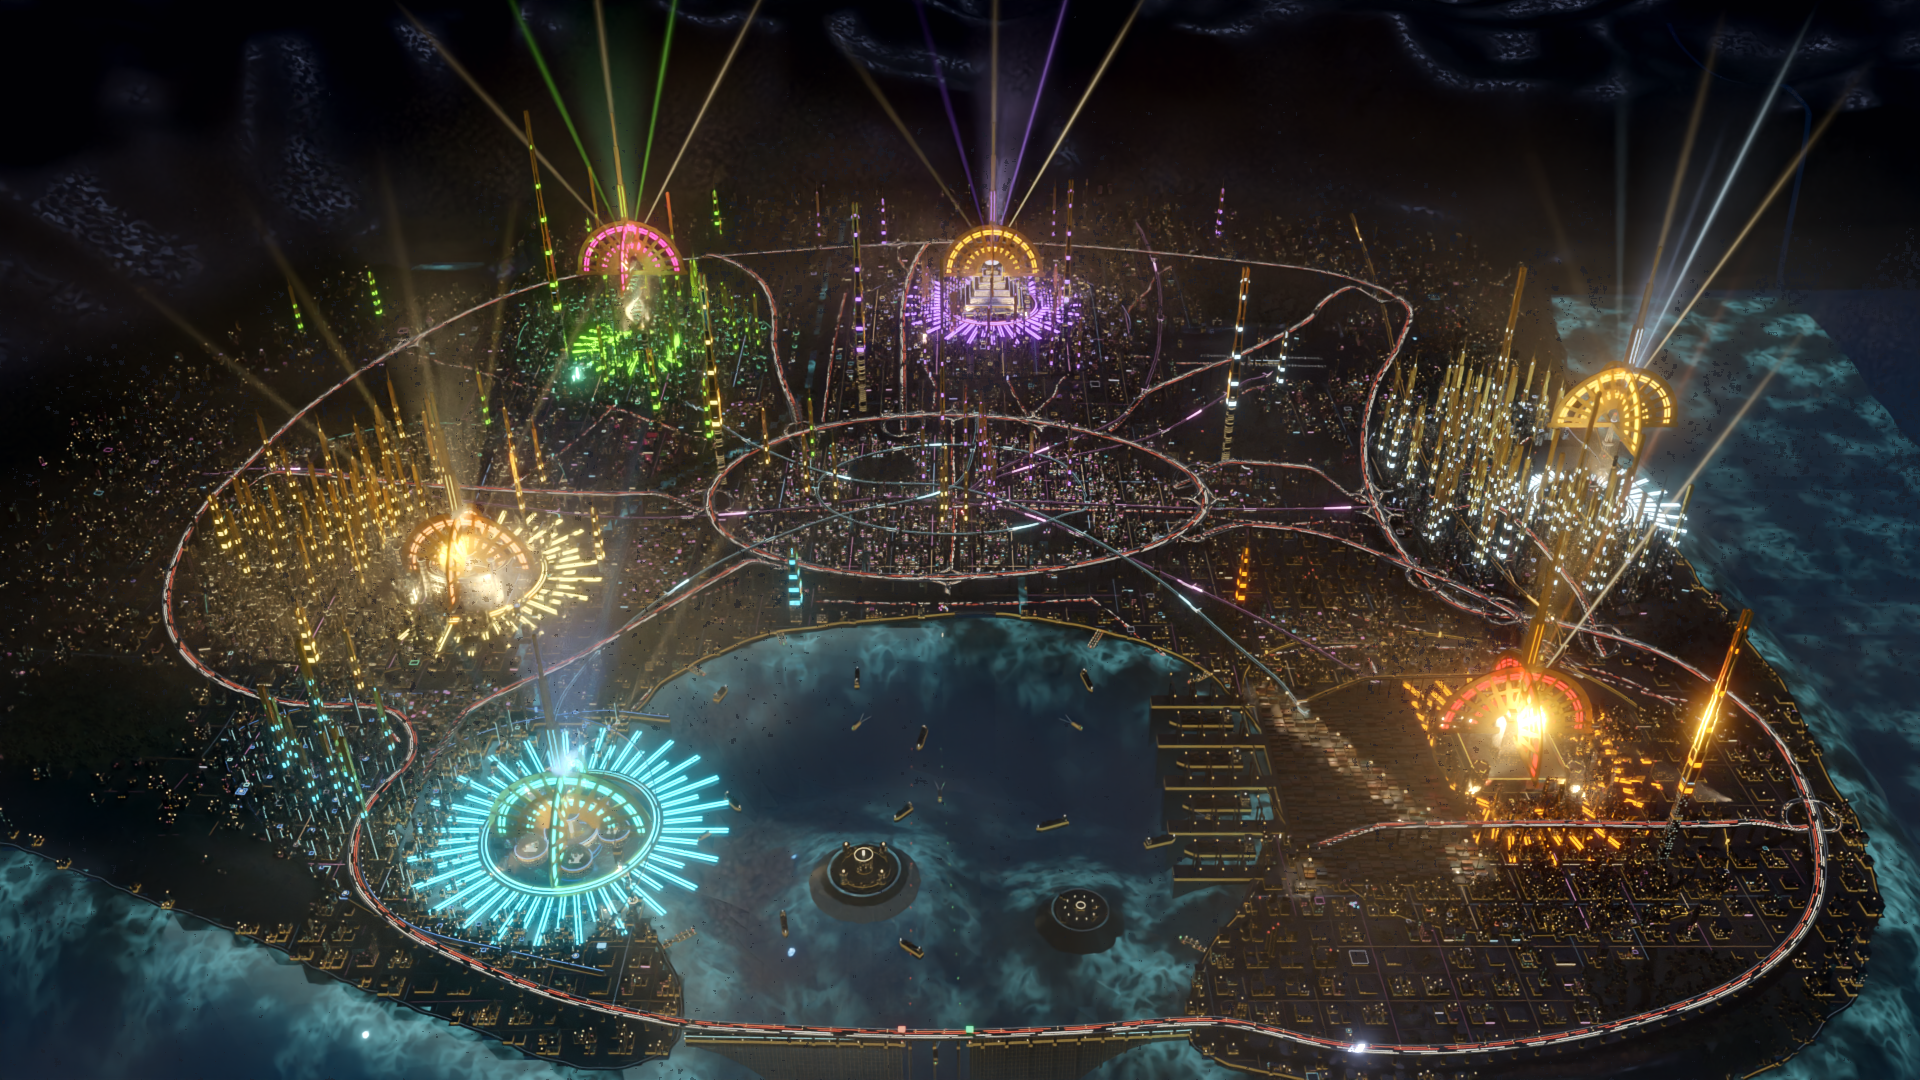
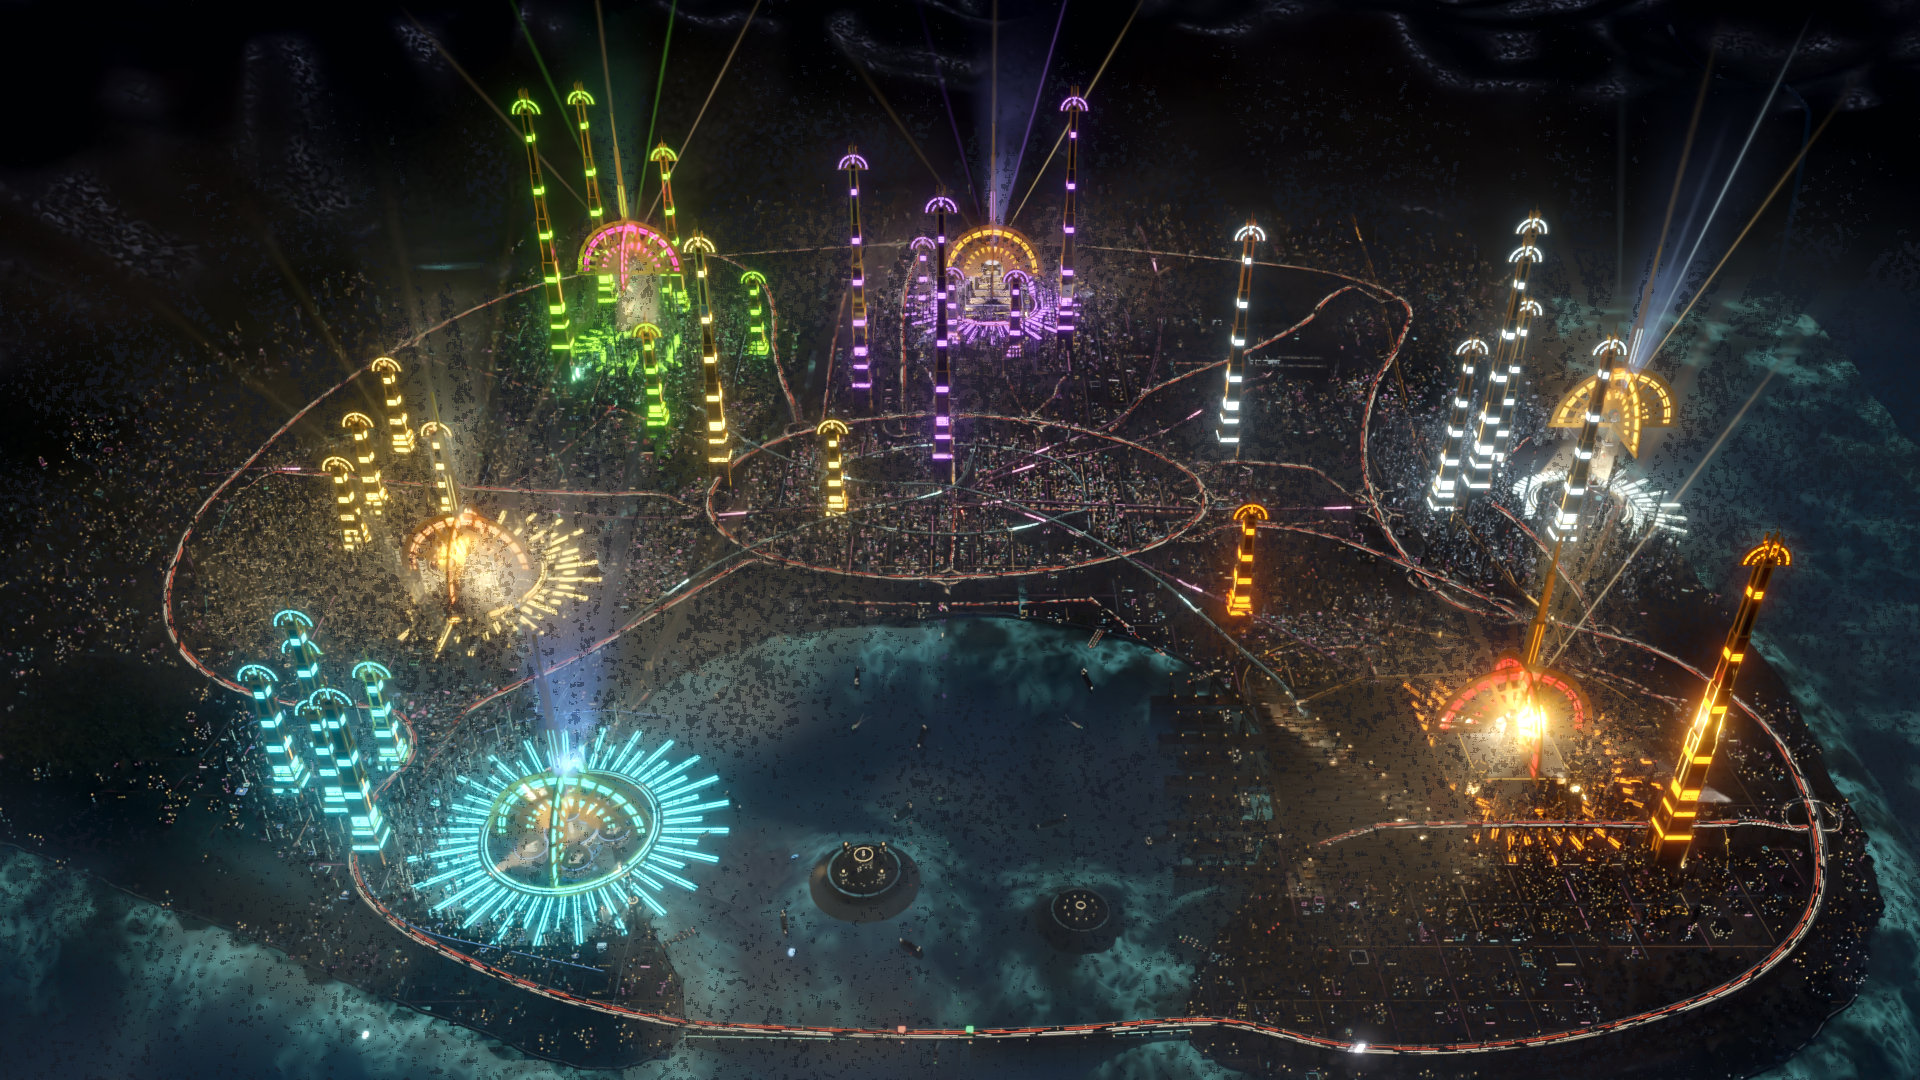
Art deco concepts: whole-city panel v2 (cool fill, crown towers per district)

diff --git a/docs/concepts/art_deco/scripts/deco_city.py b/docs/concepts/art_deco/scripts/deco_city.py
@@ -41,7 +41,7 @@ def patch_src(fname, src):
         # fog colour: neutral warm charcoal (the volume scatter colour in mat_fog)
         k2 = 'vs.inputs["Color"].default_value = (0.85, 0.80, 1.0, 1)'
         assert k2 in src
-        c = CFG.get("fog_col", (0.62, 0.56, 0.50))
+        c = CFG.get("fog_col", (0.40, 0.47, 0.62))
         src = src.replace(k2, 'vs.inputs["Color"].default_value = (%f, %f, %f, 1)' % tuple(c), 1)
     return src
 
@@ -52,6 +52,26 @@ def _prep_preset():
     for k, v in CFG.get("aaa", {}).items():
         A[k] = v
     return CP
+
+
+def _district_towers(g, frac, min_top, avoid, min_half):
+    """The tallest `frac` of the towers of each district (nearest landmark), inside the frame."""
+    LM = g["LM"]
+    allt = _towers(g, 100000, min_top, avoid, min_half)
+    by = {}
+    for t in allt:
+        best, bd = None, 1e18
+        for corp, v in LM.items():
+            d = math.hypot(t[0] - v[0][0], t[1] - v[0][1])
+            if corp != "rebel_cell" and d < bd:
+                best, bd = corp, d
+        by.setdefault(best, []).append(t)
+    out = []
+    for corp, lst in sorted(by.items(), key=lambda kv: str(kv[0])):
+        lst.sort(key=lambda t: -t[4])
+        n = max(CFG.get("per_district_min", 3), int(round(len(lst) * frac)))
+        out += [t + (corp,) for t in lst[:n]]
+    return out
 
 
 def _towers(g, n, min_top, avoid, min_half=2.0):
@@ -95,7 +115,7 @@ def apply_city(g):
     for k in ("surf", "smooth"):
         m = MS.get(k)
         if m is not None and not m.get("deco_done"):
-            D.lacquer_facade(m, dark=CFG.get("dark", 0.22), window_tint=tuple(CFG.get("win_tint", (1.0, 0.82, 0.55))),
+            D.lacquer_facade(m, dark=CFG.get("dark", 0.14), gold=tuple(CFG.get("grid_col", (0.22, 0.28, 0.42))), band_emit=CFG.get("band_emit", 0.05), win_boost=CFG.get("win_boost", 2.2), window_tint=tuple(CFG.get("win_tint", (0.80, 0.90, 1.0))),
                              fade0=CFG.get("fade0", 400.0), fade1=CFG.get("fade1", 900.0), band_w=CFG.get("band_w", 0.05))
             m["deco_done"] = 1
     if OBJ.get("bill") is not None:
@@ -160,28 +180,39 @@ def apply_city(g):
                 loc = (bx + (r + 9.0) * math.cos(a), by + (r + 9.0) * math.sin(a), z0 + 1.5)
                 g["light"]("deco_up_%s_%d" % (corp, k), "SPOT", loc, CFG.get("up_w", 2.0e6), (1.0, 0.66, 0.30),
                            rot=g["aim"](loc, (bx, by, crown[2] * 0.7)), spot=CFG.get("up_cone", 38.0), blend=0.6, shadow=False)
-    # 3. towers: stepped crowns, piers, parallel neon in the district's corp hue, fans on the tallest few
-    zs = sorted(r[5] - r[4] for r in REC)
-    zt = sorted(r[5] for r in REC)
-    print("[deco] REC height p50/p90/p99/max", zs[len(zs)//2], zs[int(len(zs)*0.9)], zs[int(len(zs)*0.99)], zs[-1], "top p50/p90/max", zt[len(zt)//2], zt[int(len(zt)*0.9)], zt[-1], flush=True)
-    towers = _towers(g, CFG.get("n_towers", 160), CFG.get("min_top", 38.0), avoid, CFG.get("min_half", 2.0))
-    nfan = CFG.get("n_fans", 14)
+    # 3. crown towers: the tallest few per district, ornament scaled to read at this distance, floodlit from below,
+    #    neon in the district's corp hue (gold stays on the crowns and trims of these towers only)
+    towers = _district_towers(g, CFG.get("top_frac", 0.045), CFG.get("min_top", 18.0), avoid, CFG.get("min_half", 1.1))
     lacq, goldq = ctx["lac"], ctx["gold"]
     nq = {}
-    for k, (cx, cy, hx, hy, z1) in enumerate(towers):
+    nfl = 0
+    for k, (cx, cy, hx, hy, z1, corp) in enumerate(towers):
         rr = random.Random(7000 + k)
-        # the corp hue by the nearest landmark
-        best, bd = None, 1e18
-        for corp, v in LM.items():
-            d = math.hypot(cx - v[0][0], cy - v[0][1])
-            if d < bd and corp != "rebel_cell":
-                best, bd = corp, d
-        h1 = hues.get(best, ((1, 0.6, 0.2), None))[0] if best else (1, 0.6, 0.2)
+        h1 = hues.get(corp, ((1, 0.6, 0.2), None))[0]
         key = tuple(round(x, 2) for x in h1)
         if key not in nq:
-            nq[key] = D.DAcc("deco_tw_neon_%d" % len(nq), M.neon(h1, nk), coll)
+            nq[key] = D.DAcc("deco_tw_neon_%d" % len(nq), M.neon(h1, nk * CFG.get("tw_neon_k", 1.6)), coll)
         t_ctx = dict(lac=lacq, gold=goldq, neon=nq[key], neon2=ctx["neon2"])
-        D.tower_deco(t_ctx, cx, cy, z1, min(hx, 9.0), min(hy, 9.0), rr, 3 + (1 if z1 > 70 else 0) + (1 if k < 12 else 0), k < nfan, k, th_k=CFG.get("th_k", 2.2), ln_k=CFG.get("ln_k", 2.0))
+        # Ferriss massing: a stout stepped lacquer shaft round the old tower (3 setbacks at ~80 %), gold cornices, hue neon
+        w0 = max(hx, hy, CFG.get("tw_half", 4.5)) * CFG.get("shaft_k", 1.7)
+        zg = terr_h(cx, cy)
+        zt = z1
+        for i, (f, zf) in enumerate(((1.0, 0.50), (0.8, 0.76), (0.64, 1.0))):
+            w = w0 * f
+            zlo = zg if i == 0 else zg + (zt - zg) * (0.50 if i == 1 else 0.76)
+            zhi = zg + (zt - zg) * zf
+            lacq.box(cx - w, cy - w, zlo, cx + w, cy + w, zhi)
+            goldq.box(cx - w - 0.6, cy - w - 0.6, zhi - 1.2, cx + w + 0.6, cy + w + 0.6, zhi + 0.3)
+            D.neon_lines(nq[key], cx, cy, w, w, zhi - 4.0, n=3, gap=1.1, th=0.45, out=0.35)
+            for sx_ in (-1, 1):
+                for sy_ in (-1, 1):
+                    goldq.box(cx + sx_ * w - 0.5, cy + sy_ * w - 0.5, zlo, cx + sx_ * w + 0.5, cy + sy_ * w + 0.5, zhi + 3.0)
+        D.tower_deco(t_ctx, cx, cy, z1, w0 * 0.64, w0 * 0.64, rr, 4 if z1 > 40 else 3, True, k,
+                     th_k=CFG.get("th_k", 3.2), ln_k=CFG.get("ln_k", 3.0), crown_k=CFG.get("crown_k", 3.0))
+        loc = (cx + 9.0, cy - 9.0, terr_h(cx, cy) + 1.0)
+        g["light"]("deco_tw_%d" % k, "SPOT", loc, CFG.get("tw_w", 4.0e5), (1.0, 0.72, 0.4),
+                   rot=g["aim"](loc, (cx, cy, z1 + 10.0)), spot=CFG.get("tw_cone", 18.0), blend=0.5, shadow=False)
+        nfl += 1
     # 4. fan searchlights: gold shafts spreading from each crown (camera-only cones like the pipeline's own beams)
     if g.get("beam_shaft") and g.get("beam_mat") and not CFG.get("no_fans", False):
         BM = CP.AAA["beam"]
@@ -205,4 +236,4 @@ def apply_city(g):
         b.build()
     for a in nq.values():
         a.build()
-    print("[deco] city: towers", len(towers), "recorded", len(REC), "landmarks", [e[0] for e in extra], flush=True)
+    print("[deco] city: crown towers", len(towers), "floods", nfl, "recorded", len(REC), "landmarks", [e[0] for e in extra], flush=True)

diff --git a/docs/concepts/art_deco/scripts/deco_pack.py b/docs/concepts/art_deco/scripts/deco_pack.py
@@ -13,7 +13,7 @@ CON = os.path.normpath(os.path.join(OUT, ".."))
 GP = os.path.join(CON, "golden_plates")
 SC = "D:/rc_scratch/art_deco"
 PANELS = [
-    ("01", "whole_city", SC + "/city/g1/plate.png", GP + "/city_a2_night.png", "1. Whole city, A2 hero camera"),
+    ("01", "whole_city", SC + "/city/v2/plate.png", GP + "/city_a2_night.png", "1. Whole city, A2 hero camera"),
     ("02", "halcyon", SC + "/halcyon/g3/plate.png", GP + "/hq_halcyon_overview.png", "2. Halcyon HQ: the ziggurat and its sunburst Eye"),
     ("03", "meridian", SC + "/meridian/g3/plate.png", GP + "/hq_meridian_overview.png", "3. Meridian HQ: the Gatehouse Gantry in brass"),
     ("04", "orbital", SC + "/orbital/g3/plate.png", GP + "/hq_orbital_overview.png", "4. Orbital HQ: sunburst pad, ringed silo"),
@@ -53,6 +53,16 @@ def main():
     ch = int(cw * 720 / 2568) + 34
     ch7 = int(2560 * 540 / (3 * 960 + 16)) + 34
     rows = 4
+    v1 = Image.open(SC + "/city/prev_v1.png").convert("RGB").resize((1280, 720), Image.LANCZOS)
+    v2 = Image.open(SC + "/city/v2/plate.png").convert("RGB").resize((1280, 720), Image.LANCZOS)
+    cmp_ = Image.new("RGB", (2568, 720), (12, 12, 12))
+    cmp_.paste(v1, (0, 0))
+    cmp_.paste(v2, (1288, 0))
+    dd = ImageDraw.Draw(cmp_)
+    ff = ImageFont.truetype(FONT, 26)
+    dd.text((10, 6), "DECO v1", font=ff, fill=(255, 200, 90))
+    dd.text((1298, 6), "DECO v2", font=ff, fill=(255, 200, 90))
+    cmp_.save(os.path.join(OUT, "01_whole_city_v1_v2.jpg"), quality=90)
     # panel 7: variant A (frame only) and B (full wheel), one sbs: current | A | B
     cur = Image.open(CON + "/round41_wheel_stack/combat_typical_v4.png").convert("RGB")
     A = Image.open(SC + "/panel7_A.png").convert("RGB")

diff --git a/docs/concepts/art_deco/scripts/deco_restyle.py b/docs/concepts/art_deco/scripts/deco_restyle.py
@@ -412,7 +412,7 @@ def spire(gold, neon, cx, cy, z, h, w, n_lines=2):
 
 
 # ----------------------------------------------------------------------------------------------- towers
-def tower_deco(ctx, x, y, top, hx, hy, rng, tiers, fan, rank, th_k=1.0, ln_k=1.0):
+def tower_deco(ctx, x, y, top, hx, hy, rng, tiers, fan, rank, th_k=1.0, ln_k=1.0, crown_k=1.0):
     """Setback the tower into `tiers` stepped lacquer tiers (each ~80 % of the one below), gold cornices, corner piers
     that run past the roofline, parallel neon on every setback edge, chevron band, optional fan crown."""
     L, G, N, NG = ctx["lac"], ctx["gold"], ctx["neon"], ctx["neon2"]
@@ -459,11 +459,11 @@ def tower_deco(ctx, x, y, top, hx, hy, rng, tiers, fan, rank, th_k=1.0, ln_k=1.0
         sy *= 0.8
     # crown
     if fan:
-        R = max(hx, hy) * 1.15
+        R = max(hx, hy) * 1.15 * crown_k
         fan_crown(G, L, N, x, y, z, "x" if hx >= hy else "y", R, rng, nray=9 + 2 * int(rng.random() * 3), t=0.7)
-        spire(G, N, x, y, z + R * 0.3, R * 1.5, 0.35)
+        spire(G, N, x, y, z + R * 0.3, R * 1.5, 0.35 * min(crown_k, 3.0))
     else:
-        spire(G, N, x, y, z, th * (1.4 + 0.6 * rng.random()), 0.45 + 0.1 * min(sx, 3))
+        spire(G, N, x, y, z, th * (1.4 + 0.6 * rng.random()) * crown_k, (0.45 + 0.1 * min(sx, 3)) * min(crown_k, 2.5))
     return z
 
 

diff --git a/docs/concepts/art_deco/scripts/deco_blender_city.py b/docs/concepts/art_deco/scripts/deco_blender_city.py
@@ -17,6 +17,7 @@ SRC = os.path.join(CITY, "city_build.py")
 sys.path.insert(0, CITY)
 import deco_city as DC  # noqa: E402
 
+DC._prep_preset()
 text = open(SRC, encoding="utf-8").read()
 A = "def building(b):\n"
 assert A in text

diff --git a/docs/concepts/art_deco/NOTES.md b/docs/concepts/art_deco/NOTES.md
@@ -6,9 +6,12 @@ ground, light streaks) except panel 7 (PIL over panel 6). Nothing in the base pi
 scene sources in memory at run time and send every output to `D:/rc_scratch/art_deco/`.
 
 ## What deco changes, per panel
-1. **Whole city** (A2 hero camera, `deco_city.py`): facades become black lacquer with gold floor bands; the tallest towers in frame
-   gain 3-5 setbacks, gold piers past the roofline and parallel neon in the nearest corp hue; each landmark gets a stepped gold
-   plinth, a ground sunburst (48 ray pairs), a crossed open fan crown with a spire, and a gold fan of searchlights. Signs-as-light off.
+1. **Whole city** (A2 hero camera, `deco_city.py`; v2 after the AD notes, v1 kept in `01_whole_city_v1_v2.jpg`): the city fill is
+   near-black cool lacquer (grid and windows blue-grey, no gold on ordinary towers) in a blue-charcoal fog with a thicker low layer
+   (fog_peak 0.16, fog_base 0.10, fog_h 40). The tallest 4.5 % of towers per district (at least 6 each, 32 in frame) are rebuilt as
+   Ferriss shafts: a stout lacquer body with three setbacks (about 80 %), gold cornices and corner piers, parallel neon in the
+   district's corp hue, a crown scaled 2.2x (fan arcs and spire), and a warm floodlight from below. Landmarks keep their stepped
+   gold plinths, ground sunbursts, crossed fan crowns and searchlights; beams, traffic, water and camera unchanged. Median 0.160.
 2. **Halcyon** (`deco_corp_halcyon.py`): the seven tiers keep the pyramid, now with a gold cornice, stepped merlons, chevron band and
    corner piers per tier, triple violet lines on each setback edge, amber double lines above; the Eye is a sunburst fan crown.
 3. **Meridian** (`deco_corp_meridian.py`): the gantry (legs, span, keep, corner towers) in gold fluted piers with chevron hazard bands,
@@ -47,7 +50,7 @@ Look-dev previews: `prev.sh <corp> <tag>` (CPU, 960 x 540, 8 spp, no lock); `dec
 ## Values and timings (RX 6700 XT, HIP, OIDN, 1920 x 1080)
 | Panel | spp | render + build | frame median (luma) |
 |---|---|---|---|
-| 1 city | 64 | 80 s + 23 s build (117 s wall) | 0.161 |
+| 1 city (v2) | 64 | 119 s wall | 0.160 |
 | 2 Halcyon | 56 | 88 s wall | 0.169 |
 | 3 Meridian | 56 | 90 s | 0.169 |
 | 4 Orbital | 56 | 85 s | 0.169 |
